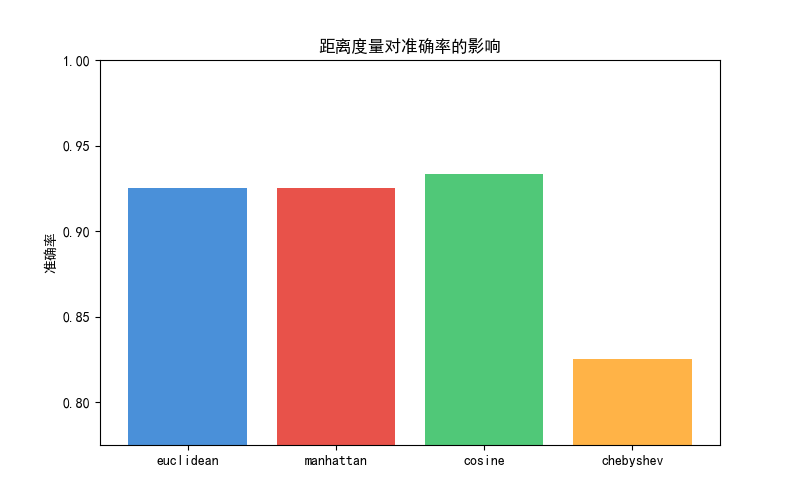
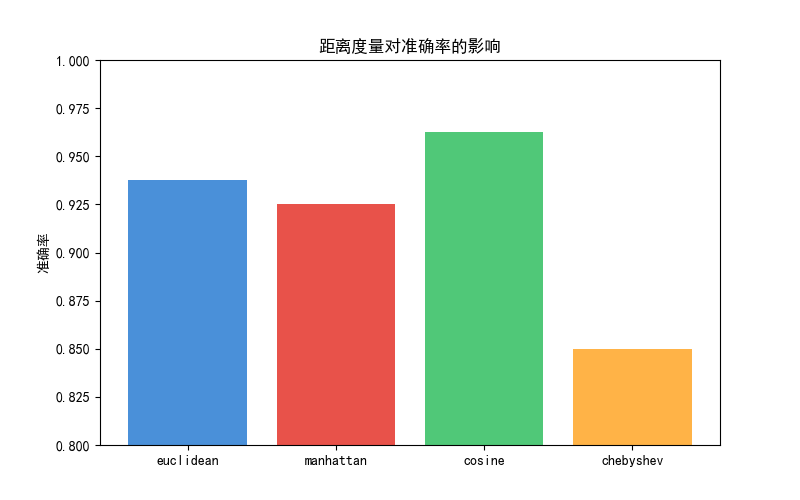
再次更新

diff --git a/lab4/lab4.py b/lab4/lab4.py
@@ -21,9 +21,9 @@ plt.rcParams['axes.unicode_minus'] = False
 # 实验配置区域
 # ============================================================
 CONFIG = {
-    'data_path': 'orl_faces',   # 数据集路径
+    'data_path': 'ORL',         # 数据集路径
     'num_classes': 40,          # 类别数
-    'train_ratio': 0.7,         # 训练集比例
+    'train_ratio': 0.8,         # 训练集比例
     'pca_components': 50,       # 基准 PCA 降维维度
     'knn_k': 1,                 # 基准 KNN 邻居数
     'knn_metric': 'cosine',     # 基准 KNN 距离度量
@@ -128,7 +128,7 @@ def run_experiment(X_train, X_test, y_train, y_test, n_components, k, metric, h,
     """运行单次实验逻辑"""
     # PCA 降维 (这里确保 n_components 不超过样本数)
     actual_components = min(n_components, X_train.shape[0], X_train.shape[1])
-    pca = PCA(n_components=actual_components, whiten=True, random_state=CONFIG['random_seed'])
+    pca = PCA(n_components=actual_components, whiten=True, svd_solver="full")
     
     X_train_pca = pca.fit_transform(X_train)
     X_test_pca = pca.transform(X_test)

diff --git a/lab4/README.md b/lab4/README.md
@@ -20,7 +20,7 @@
 | 参数 | 默认值 | 说明 |
 | --- | --- | --- |
 | `num_classes` | 40 | 参与分类的人脸类别数 |
-| `train_ratio` | 0.7 | 训练集比例 (280张训练, 120张测试) |
+| `train_ratio` | 0.8 | 训练集比例 (280张训练, 120张测试) |
 | `pca_components` | 50 | PCA 降维后的特征维度 |
 | `knn_k` | 1 | KNN 邻居数 |
 | `knn_metric` | `cosine` | KNN 距离度量方式 |
@@ -81,5 +81,5 @@
 
 ## 5. 实验结论
 1.  **降维有效性**：PCA 能将 10304 维特征压缩至 50 维左右，同时保留约 95% 以上的识别准确率。
-2.  **最优配置**：在 ORL 数据集上，采用 **余弦距离**、**K=1**、**PCA维度=50**、**训练比=0.7** 是一个非常稳健的参数组合。
+2.  **最优配置**：在 ORL 数据集上，采用 **余弦距离**、**K=1**、**PCA维度=50**、**训练比=0.8** 是一个非常稳健的参数组合。
 3.  **可视化意义**：特征空间投影和图像重构直观地证明了 PCA 在提取核心特征方面的强大能力。
